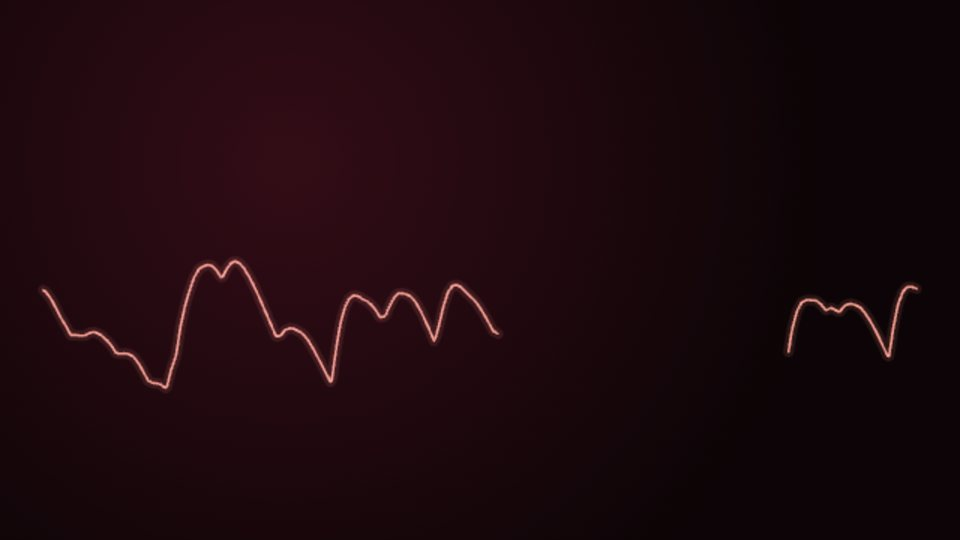
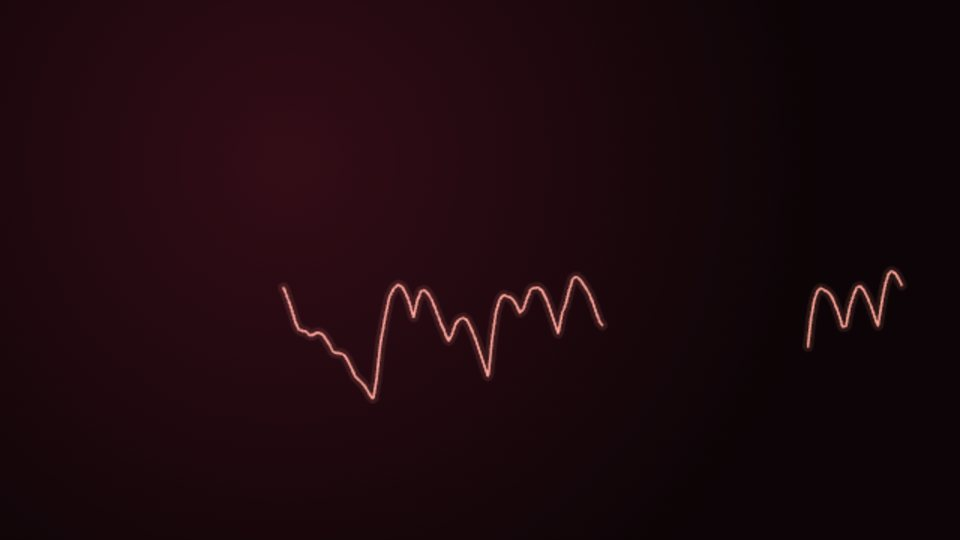
Fit beside album art (either side) and move sliders for all non-scene styles

diff --git a/spicy-visualiser.js b/spicy-visualiser.js
@@ -129,8 +129,11 @@
     mcColor: ["monstercat"],
     vuFace: ["vu"],
     vuMeters: ["vu"],
-    vuX: ["vu"],
-    vuY: ["vu"],
+    // styles that can sit beside the album art and be moved (not the
+    // full-screen scenes)
+    fit: ["monstercat", "mirror", "holospec", "ledm", "led", "ascii", "rgbsplit", "scope", "ekg", "dnb", "radial", "ncs", "sub", "trap", "drumpads", "geometric", "bauhaus", "neuro"],
+    moveX: ["vu", "monstercat", "mirror", "holospec", "ledm", "led", "ascii", "rgbsplit", "scope", "ekg", "dnb", "radial", "ncs", "sub", "trap", "drumpads", "geometric", "bauhaus", "neuro"],
+    moveY: ["vu", "monstercat", "mirror", "holospec", "ledm", "led", "ascii", "rgbsplit", "scope", "ekg", "dnb", "radial", "ncs", "sub", "trap", "drumpads", "geometric", "bauhaus", "neuro"],
     circleAt: ["trap", "radial", "ncs", "sub"],
     speed: ["ekg", "underwater", "sunset", "nightsky", "silk", "tvpixels", "scope", "trap", "neuro", "ribbon", "rain", "lava", "smoke", "tunnel", "aurora", "oil", "particles", "monstercat", "ncs", "radial", "plasma", "warp", "dnb", "ascii", "led", "ledplasma", "galaxy", "prism", "ombre"],
     bassBoost: ["rgbsplit", "underwater", "sunset", "nightsky", "silk", "tvpixels", "scope", "particles", "monstercat", "radial", "mirror", "ncs", "warp", "plasma", "dnb", "ascii", "geometric", "bauhaus", "led", "ledplasma", "sub", "trap", "ledm", "neuro", "ribbon", "rain", "lava", "smoke", "tunnel", "aurora", "oil", "galaxy", "prism", "ombre"],
@@ -158,8 +161,9 @@
     neuroMirror: "off",
     vuFace: "night", // VU Meters look: night (classic) | minimal | holo | hud
     vuMeters: "both", // VU Meters: both needles in one meter | split (bass left, highs right) | bass (one meter)
-    vuX: 0, // VU Meters: move left (-1) / right (+1)
-    vuY: 0, // VU Meters: move down (-1) / up (+1)
+    fit: "full", // full = the whole view; art = the free space beside the album art (either side)
+    moveX: 0, // move left (-1) / right (+1)
+    moveY: 0, // move down (-1) / up (+1)
     circleAt: "middle", // circle styles: middle of the view, or round the album art
     beatEvery: "1", // beat-stepping styles change every 1, 2, 4 or 8 beats
     colorMove: "move", // move = colours shift on the beat and drift; still = they stay put
@@ -168,13 +172,15 @@
     color2: "#5b8cff",
   };
   const STYLE_DEFAULTS = {
+    radial: { fit: "art" },
+    ncs: { fit: "art" },
     mirror: { barCount: 56, bassBoost: 0.6 },
     plasma: { shake: 0 },
     ascii: { colorMode: "classic" },
     geometric: { shake: 0, opacity: 0.85 },
     bauhaus: { shake: 0, opacity: 0.85, beatEvery: "4" },
-    sub: { shake: 0.4 },
-    trap: { shake: 0.4, bassBoost: 0.7, colorMode: "classic" },
+    sub: { shake: 0.4, fit: "art" },
+    trap: { shake: 0.4, bassBoost: 0.7, colorMode: "classic", fit: "art" },
     neuro: { shake: 0.2, colorMode: "classic", neuroTwist: 0.05 },
     ribbon: { shake: 0 },
     rain: { shake: 0 },
@@ -189,13 +195,13 @@
     prism: { shake: 0, colorMode: "classic" },
     ombre: { shake: 0 },
     vu: { shake: 0, vuFace: "holo" },
-    scope: { shake: 0, colorMode: "classic" },
-    drumpads: { shake: 0 },
+    scope: { shake: 0, colorMode: "classic", fit: "art" },
+    drumpads: { shake: 0, fit: "art" },
     led: { colorMode: "classic", shake: 0 },
     ledplasma: { shake: 0 },
     monstercat: { barCount: 63, bassBoost: 0.8, smoothing: 0.45, beatEvery: "4" },
     ledm: { shake: 0 },
-    ekg: { shake: 0 },
+    ekg: { shake: 0, fit: "art" },
     underwater: { shake: 0 },
     sunset: { shake: 0 },
     nightsky: { shake: 0 },
@@ -258,6 +264,7 @@
   // Settings that were taken out of the panel go back to their defaults.
   if (S.per.neuro) for (const k of ["neuroLine", "neuroTwist", "neuroMirror"]) delete S.per.neuro[k];
   if (S.per.vu && S.per.vu.vuFace === "led") delete S.per.vu.vuFace;
+  if (S.per.vu && "vuX" in S.per.vu) { S.per.vu.moveX = S.per.vu.vuX; S.per.vu.moveY = S.per.vu.vuY || 0; delete S.per.vu.vuX; delete S.per.vu.vuY; }
   if (S.per.vu && (S.per.vu.vuFace === "studio" || S.per.vu.vuFace === "broadcast")) S.per.vu.vuFace = "holo";
   for (const k of Object.keys(S.per)) if (S.per[k]) delete S.per[k].autoRange;
   // Shake used to go to 300% (and 40% was already a lot): convert old values so
@@ -2647,8 +2654,8 @@ void main() {
     }
     const look = VU_LOOKS[p.vuFace] || vuNight;
     const sp = freeSpot(v);
-    sp.x += Math.max(-1, Math.min(1, +p.vuX || 0)) * v.w * 0.4;
-    sp.y -= Math.max(-1, Math.min(1, +p.vuY || 0)) * v.h * 0.4;
+    sp.x += Math.max(-1, Math.min(1, +p.moveX || 0)) * v.w * 0.4;
+    sp.y -= Math.max(-1, Math.min(1, +p.moveY || 0)) * v.h * 0.4;
     if (p.vuMeters === "split") {
       const half = { wmax: sp.wmax * 0.62, y: sp.y }; // each a bit bigger than half, they still clear each other
       look(v, p, st, red, { ...half, x: sp.x - sp.wmax / 4 }, [0]);
@@ -2683,6 +2690,17 @@ void main() {
       return { x: r / 2, y: v.h / 2, wmax: r };
     }
     return { x: v.w / 2, y: v.h / 2, wmax: v.w };
+  }
+  // The part of the view a style draws in: the whole view, or (Fit: Beside
+  // art) the free space beside the album art, whichever side the art is.
+  function fitRegion(v, p) {
+    const art = p.fit === "art" && v.artCircle && v.artCircle();
+    if (art) {
+      const gap = art.r * 0.12, m = v.w * 0.03;
+      const [x0, x1] = art.x < v.w / 2 ? [art.x + art.r + gap, v.w - m] : [m, art.x - art.r - gap];
+      if (x1 - x0 > v.w * 0.25) return { x0, w: x1 - x0 };
+    }
+    return { x0: 0, w: v.w };
   }
   const UI_FONT = '"SpotifyMixUI", "CircularSp", "Helvetica Neue", Arial, sans-serif';
 
@@ -5238,7 +5256,7 @@ void main() {
             <div class="lp-row"><div class="lp-label"><span>Colour changes</span></div>${seg("colorMove", [["move", "Moving"], ["still", "Still"]], "style")}</div>
             <div class="lp-colors" data-show-color><label><input type="color" data-key="color1" data-scope="style">Colour 1</label><label><input type="color" data-key="color2" data-scope="style">Colour 2</label></div>`)}
           ${group("Appearance", slider("opacity", "Opacity", 0.1, 1, 0.05, "style") + slider("blur", "Blur", 0, 20, 0.5, "style") + slider("brightness", "Brightness", 0.2, 1.6, 0.05, "style") + slider("size", "Size", 0.4, 2, 0.05, "style"))}
-          ${group("Layout", slider("barCount", "Bar count", 16, 128, 1, "style", u("barCount")) + `<div class="lp-row" data-uses="${u("position")}"><div class="lp-label"><span>Position</span></div>${seg("position", [["bottom", "Bottom"], ["top", "Top"], ["both", "Both"]], "style")}</div><div class="lp-row" data-uses="${u("variant")}"><div class="lp-label"><span>Look</span></div>${seg("variant", [["poster", "Poster"], ["brutalist", "Brutalist"]], "style")}</div><div class="lp-row" data-uses="${u("neuroLook")}"><div class="lp-label"><span>Look</span></div>${seg("neuroLook", [["mesh", "Mesh"], ["lines", "Lines"], ["ridges", "Ridges"]], "style")}</div><div class="lp-row" data-uses="${u("vuFace")}"><div class="lp-label"><span>Look</span></div>${seg("vuFace", [["night", "Classic"], ["minimal", "Minimal"], ["holo", "Holo"], ["hud", "HUD"]], "style")}</div><div class="lp-row" data-uses="${u("vuMeters")}"><div class="lp-label"><span>Meters</span></div>${seg("vuMeters", [["both", "Both"], ["split", "Split"], ["bass", "Bass only"]], "style")}</div>${slider("vuX", "Left / right", -1, 1, 0.05, "style", u("vuX"))}${slider("vuY", "Up / down", -1, 1, 0.05, "style", u("vuY"))}<div class="lp-row" data-uses="${u("circleAt")}"><div class="lp-label"><span>Circle at</span></div>${seg("circleAt", [["middle", "Middle"], ["art", "Album art"]], "style")}</div><div class="lp-row" data-uses="${u("mcColor")}"><div class="lp-label"><span>Bar colour</span></div>${seg("mcColor", [["flow", "Flow"], ["frequency", "Freq."], ["height", "Area"], ["bar", "Bar"], ["solid", "Solid"]], "style")}</div><div class="lp-row" data-uses="${u("beatEvery")}"><div class="lp-label"><span>Change every</span></div>${seg("beatEvery", [["1", "Beat"], ["2", "2"], ["4", "4"], ["8", "8 beats"]], "style")}</div>`, [...new Set([...USES.barCount, ...USES.position, ...USES.variant, ...USES.neuroLook, ...USES.vuFace, ...USES.vuMeters, ...USES.circleAt, ...USES.mcColor, ...USES.beatEvery])].join(","))}
+          ${group("Layout", slider("barCount", "Bar count", 16, 128, 1, "style", u("barCount")) + `<div class="lp-row" data-uses="${u("position")}"><div class="lp-label"><span>Position</span></div>${seg("position", [["bottom", "Bottom"], ["top", "Top"], ["both", "Both"]], "style")}</div><div class="lp-row" data-uses="${u("variant")}"><div class="lp-label"><span>Look</span></div>${seg("variant", [["poster", "Poster"], ["brutalist", "Brutalist"]], "style")}</div><div class="lp-row" data-uses="${u("neuroLook")}"><div class="lp-label"><span>Look</span></div>${seg("neuroLook", [["mesh", "Mesh"], ["lines", "Lines"], ["ridges", "Ridges"]], "style")}</div><div class="lp-row" data-uses="${u("vuFace")}"><div class="lp-label"><span>Look</span></div>${seg("vuFace", [["night", "Classic"], ["minimal", "Minimal"], ["holo", "Holo"], ["hud", "HUD"]], "style")}</div><div class="lp-row" data-uses="${u("vuMeters")}"><div class="lp-label"><span>Meters</span></div>${seg("vuMeters", [["both", "Both"], ["split", "Split"], ["bass", "Bass only"]], "style")}</div><div class="lp-row" data-uses="${u("fit")}"><div class="lp-label"><span>Fit</span></div>${seg("fit", [["full", "Full width"], ["art", "Beside art"]], "style")}</div>${slider("moveX", "Left / right", -1, 1, 0.05, "style", u("moveX"))}${slider("moveY", "Up / down", -1, 1, 0.05, "style", u("moveY"))}<div class="lp-row" data-uses="${u("circleAt")}"><div class="lp-label"><span>Circle at</span></div>${seg("circleAt", [["middle", "Middle"], ["art", "Album art"]], "style")}</div><div class="lp-row" data-uses="${u("mcColor")}"><div class="lp-label"><span>Bar colour</span></div>${seg("mcColor", [["flow", "Flow"], ["frequency", "Freq."], ["height", "Area"], ["bar", "Bar"], ["solid", "Solid"]], "style")}</div><div class="lp-row" data-uses="${u("beatEvery")}"><div class="lp-label"><span>Change every</span></div>${seg("beatEvery", [["1", "Beat"], ["2", "2"], ["4", "4"], ["8", "8 beats"]], "style")}</div>`, [...new Set([...USES.barCount, ...USES.position, ...USES.variant, ...USES.neuroLook, ...USES.vuFace, ...USES.vuMeters, ...USES.moveX, ...USES.circleAt, ...USES.mcColor, ...USES.beatEvery])].join(","))}
         </div>
         ${group("Background", slider("bgDim", "Darken background", 0, 0.9, 0.05, "global") + `<div class="lp-note">Calms Spicy Lyrics' moving background so the visual stands out. The lyrics and album art aren't touched.</div>`)}
       </div>
@@ -5388,7 +5406,7 @@ void main() {
     p.querySelectorAll(".lp-val").forEach((el) => {
       const key = el.dataset.for;
       const val = read(el.dataset.scope, key);
-      el.textContent = key === "barCount" ? String(Math.round(val)) : key === "blur" ? val + "px" : key === "syncDelay" ? Math.round(val) + " ms" : key === "beatSens" && val <= 0 ? "Off" : key === "vuX" || key === "vuY" ? (Math.abs(val) < 0.025 ? "Centre" : (key === "vuX" ? (val < 0 ? "Left " : "Right ") : val < 0 ? "Down " : "Up ") + Math.round(Math.abs(val) * 100) + "%") : Math.round(val * 100) + "%";
+      el.textContent = key === "barCount" ? String(Math.round(val)) : key === "blur" ? val + "px" : key === "syncDelay" ? Math.round(val) + " ms" : key === "beatSens" && val <= 0 ? "Off" : key === "moveX" || key === "moveY" ? (Math.abs(val) < 0.025 ? "Centre" : (key === "moveX" ? (val < 0 ? "Left " : "Right ") : val < 0 ? "Down " : "Up ") + Math.round(Math.abs(val) * 100) + "%") : Math.round(val * 100) + "%";
     });
     p.querySelectorAll("[data-uses]").forEach((el) => el.classList.toggle("lp-hidden", !el.dataset.uses.split(",").includes(style)));
     p.querySelectorAll("[data-show-if]").forEach((el) => el.classList.toggle("lp-hidden", S[el.dataset.showIf] === "off"));
@@ -6041,7 +6059,20 @@ void main() {
         }
         ctx.setTransform(z, 0, 0, z, (v.w / 2) * (1 - z) + dx, (v.h / 2) * (1 - z) + dy);
         ctx.globalCompositeOperation = "lighter";
-        DRAW[style](v, p, dt, t);
+        // Fit and move: the style draws into a view the size of its region,
+        // shifted into place (VU Meters places itself).
+        let vv = v;
+        if (style !== "vu" && USES.moveX.includes(style)) {
+          const R = fitRegion(v, p);
+          ctx.translate(R.x0 + Math.max(-1, Math.min(1, +p.moveX || 0)) * v.w * 0.4, -Math.max(-1, Math.min(1, +p.moveY || 0)) * v.h * 0.4);
+          if (R.x0 || R.w !== v.w) {
+            vv = v.fitV || (v.fitV = Object.create(v));
+            vv.w = R.w;
+            vv.h = v.h;
+            vv.artCircle = () => { const a = v.artCircle(); return a && { ...a, x: a.x - R.x0 }; };
+          }
+        }
+        DRAW[style](vv, p, dt, t);
         ctx.setTransform(1, 0, 0, 1, 0, 0);
         ctx.globalCompositeOperation = "lighter";
         ctx.globalAlpha = 1;

diff --git a/src/spicy-visualiser.template.js b/src/spicy-visualiser.template.js
@@ -129,8 +129,11 @@
     mcColor: ["monstercat"],
     vuFace: ["vu"],
     vuMeters: ["vu"],
-    vuX: ["vu"],
-    vuY: ["vu"],
+    // styles that can sit beside the album art and be moved (not the
+    // full-screen scenes)
+    fit: ["monstercat", "mirror", "holospec", "ledm", "led", "ascii", "rgbsplit", "scope", "ekg", "dnb", "radial", "ncs", "sub", "trap", "drumpads", "geometric", "bauhaus", "neuro"],
+    moveX: ["vu", "monstercat", "mirror", "holospec", "ledm", "led", "ascii", "rgbsplit", "scope", "ekg", "dnb", "radial", "ncs", "sub", "trap", "drumpads", "geometric", "bauhaus", "neuro"],
+    moveY: ["vu", "monstercat", "mirror", "holospec", "ledm", "led", "ascii", "rgbsplit", "scope", "ekg", "dnb", "radial", "ncs", "sub", "trap", "drumpads", "geometric", "bauhaus", "neuro"],
     circleAt: ["trap", "radial", "ncs", "sub"],
     speed: ["ekg", "underwater", "sunset", "nightsky", "silk", "tvpixels", "scope", "trap", "neuro", "ribbon", "rain", "lava", "smoke", "tunnel", "aurora", "oil", "particles", "monstercat", "ncs", "radial", "plasma", "warp", "dnb", "ascii", "led", "ledplasma", "galaxy", "prism", "ombre"],
     bassBoost: ["rgbsplit", "underwater", "sunset", "nightsky", "silk", "tvpixels", "scope", "particles", "monstercat", "radial", "mirror", "ncs", "warp", "plasma", "dnb", "ascii", "geometric", "bauhaus", "led", "ledplasma", "sub", "trap", "ledm", "neuro", "ribbon", "rain", "lava", "smoke", "tunnel", "aurora", "oil", "galaxy", "prism", "ombre"],
@@ -158,8 +161,9 @@
     neuroMirror: "off",
     vuFace: "night", // VU Meters look: night (classic) | minimal | holo | hud
     vuMeters: "both", // VU Meters: both needles in one meter | split (bass left, highs right) | bass (one meter)
-    vuX: 0, // VU Meters: move left (-1) / right (+1)
-    vuY: 0, // VU Meters: move down (-1) / up (+1)
+    fit: "full", // full = the whole view; art = the free space beside the album art (either side)
+    moveX: 0, // move left (-1) / right (+1)
+    moveY: 0, // move down (-1) / up (+1)
     circleAt: "middle", // circle styles: middle of the view, or round the album art
     beatEvery: "1", // beat-stepping styles change every 1, 2, 4 or 8 beats
     colorMove: "move", // move = colours shift on the beat and drift; still = they stay put
@@ -168,13 +172,15 @@
     color2: "#5b8cff",
   };
   const STYLE_DEFAULTS = {
+    radial: { fit: "art" },
+    ncs: { fit: "art" },
     mirror: { barCount: 56, bassBoost: 0.6 },
     plasma: { shake: 0 },
     ascii: { colorMode: "classic" },
     geometric: { shake: 0, opacity: 0.85 },
     bauhaus: { shake: 0, opacity: 0.85, beatEvery: "4" },
-    sub: { shake: 0.4 },
-    trap: { shake: 0.4, bassBoost: 0.7, colorMode: "classic" },
+    sub: { shake: 0.4, fit: "art" },
+    trap: { shake: 0.4, bassBoost: 0.7, colorMode: "classic", fit: "art" },
     neuro: { shake: 0.2, colorMode: "classic", neuroTwist: 0.05 },
     ribbon: { shake: 0 },
     rain: { shake: 0 },
@@ -189,13 +195,13 @@
     prism: { shake: 0, colorMode: "classic" },
     ombre: { shake: 0 },
     vu: { shake: 0, vuFace: "holo" },
-    scope: { shake: 0, colorMode: "classic" },
-    drumpads: { shake: 0 },
+    scope: { shake: 0, colorMode: "classic", fit: "art" },
+    drumpads: { shake: 0, fit: "art" },
     led: { colorMode: "classic", shake: 0 },
     ledplasma: { shake: 0 },
     monstercat: { barCount: 63, bassBoost: 0.8, smoothing: 0.45, beatEvery: "4" },
     ledm: { shake: 0 },
-    ekg: { shake: 0 },
+    ekg: { shake: 0, fit: "art" },
     underwater: { shake: 0 },
     sunset: { shake: 0 },
     nightsky: { shake: 0 },
@@ -258,6 +264,7 @@
   // Settings that were taken out of the panel go back to their defaults.
   if (S.per.neuro) for (const k of ["neuroLine", "neuroTwist", "neuroMirror"]) delete S.per.neuro[k];
   if (S.per.vu && S.per.vu.vuFace === "led") delete S.per.vu.vuFace;
+  if (S.per.vu && "vuX" in S.per.vu) { S.per.vu.moveX = S.per.vu.vuX; S.per.vu.moveY = S.per.vu.vuY || 0; delete S.per.vu.vuX; delete S.per.vu.vuY; }
   if (S.per.vu && (S.per.vu.vuFace === "studio" || S.per.vu.vuFace === "broadcast")) S.per.vu.vuFace = "holo";
   for (const k of Object.keys(S.per)) if (S.per[k]) delete S.per[k].autoRange;
   // Shake used to go to 300% (and 40% was already a lot): convert old values so
@@ -2647,8 +2654,8 @@ void main() {
     }
     const look = VU_LOOKS[p.vuFace] || vuNight;
     const sp = freeSpot(v);
-    sp.x += Math.max(-1, Math.min(1, +p.vuX || 0)) * v.w * 0.4;
-    sp.y -= Math.max(-1, Math.min(1, +p.vuY || 0)) * v.h * 0.4;
+    sp.x += Math.max(-1, Math.min(1, +p.moveX || 0)) * v.w * 0.4;
+    sp.y -= Math.max(-1, Math.min(1, +p.moveY || 0)) * v.h * 0.4;
     if (p.vuMeters === "split") {
       const half = { wmax: sp.wmax * 0.62, y: sp.y }; // each a bit bigger than half, they still clear each other
       look(v, p, st, red, { ...half, x: sp.x - sp.wmax / 4 }, [0]);
@@ -2683,6 +2690,17 @@ void main() {
       return { x: r / 2, y: v.h / 2, wmax: r };
     }
     return { x: v.w / 2, y: v.h / 2, wmax: v.w };
+  }
+  // The part of the view a style draws in: the whole view, or (Fit: Beside
+  // art) the free space beside the album art, whichever side the art is.
+  function fitRegion(v, p) {
+    const art = p.fit === "art" && v.artCircle && v.artCircle();
+    if (art) {
+      const gap = art.r * 0.12, m = v.w * 0.03;
+      const [x0, x1] = art.x < v.w / 2 ? [art.x + art.r + gap, v.w - m] : [m, art.x - art.r - gap];
+      if (x1 - x0 > v.w * 0.25) return { x0, w: x1 - x0 };
+    }
+    return { x0: 0, w: v.w };
   }
   const UI_FONT = '"SpotifyMixUI", "CircularSp", "Helvetica Neue", Arial, sans-serif';
 
@@ -4926,7 +4944,7 @@ void main() {
             <div class="lp-row"><div class="lp-label"><span>Colour changes</span></div>${seg("colorMove", [["move", "Moving"], ["still", "Still"]], "style")}</div>
             <div class="lp-colors" data-show-color><label><input type="color" data-key="color1" data-scope="style">Colour 1</label><label><input type="color" data-key="color2" data-scope="style">Colour 2</label></div>`)}
           ${group("Appearance", slider("opacity", "Opacity", 0.1, 1, 0.05, "style") + slider("blur", "Blur", 0, 20, 0.5, "style") + slider("brightness", "Brightness", 0.2, 1.6, 0.05, "style") + slider("size", "Size", 0.4, 2, 0.05, "style"))}
-          ${group("Layout", slider("barCount", "Bar count", 16, 128, 1, "style", u("barCount")) + `<div class="lp-row" data-uses="${u("position")}"><div class="lp-label"><span>Position</span></div>${seg("position", [["bottom", "Bottom"], ["top", "Top"], ["both", "Both"]], "style")}</div><div class="lp-row" data-uses="${u("variant")}"><div class="lp-label"><span>Look</span></div>${seg("variant", [["poster", "Poster"], ["brutalist", "Brutalist"]], "style")}</div><div class="lp-row" data-uses="${u("neuroLook")}"><div class="lp-label"><span>Look</span></div>${seg("neuroLook", [["mesh", "Mesh"], ["lines", "Lines"], ["ridges", "Ridges"]], "style")}</div><div class="lp-row" data-uses="${u("vuFace")}"><div class="lp-label"><span>Look</span></div>${seg("vuFace", [["night", "Classic"], ["minimal", "Minimal"], ["holo", "Holo"], ["hud", "HUD"]], "style")}</div><div class="lp-row" data-uses="${u("vuMeters")}"><div class="lp-label"><span>Meters</span></div>${seg("vuMeters", [["both", "Both"], ["split", "Split"], ["bass", "Bass only"]], "style")}</div>${slider("vuX", "Left / right", -1, 1, 0.05, "style", u("vuX"))}${slider("vuY", "Up / down", -1, 1, 0.05, "style", u("vuY"))}<div class="lp-row" data-uses="${u("circleAt")}"><div class="lp-label"><span>Circle at</span></div>${seg("circleAt", [["middle", "Middle"], ["art", "Album art"]], "style")}</div><div class="lp-row" data-uses="${u("mcColor")}"><div class="lp-label"><span>Bar colour</span></div>${seg("mcColor", [["flow", "Flow"], ["frequency", "Freq."], ["height", "Area"], ["bar", "Bar"], ["solid", "Solid"]], "style")}</div><div class="lp-row" data-uses="${u("beatEvery")}"><div class="lp-label"><span>Change every</span></div>${seg("beatEvery", [["1", "Beat"], ["2", "2"], ["4", "4"], ["8", "8 beats"]], "style")}</div>`, [...new Set([...USES.barCount, ...USES.position, ...USES.variant, ...USES.neuroLook, ...USES.vuFace, ...USES.vuMeters, ...USES.circleAt, ...USES.mcColor, ...USES.beatEvery])].join(","))}
+          ${group("Layout", slider("barCount", "Bar count", 16, 128, 1, "style", u("barCount")) + `<div class="lp-row" data-uses="${u("position")}"><div class="lp-label"><span>Position</span></div>${seg("position", [["bottom", "Bottom"], ["top", "Top"], ["both", "Both"]], "style")}</div><div class="lp-row" data-uses="${u("variant")}"><div class="lp-label"><span>Look</span></div>${seg("variant", [["poster", "Poster"], ["brutalist", "Brutalist"]], "style")}</div><div class="lp-row" data-uses="${u("neuroLook")}"><div class="lp-label"><span>Look</span></div>${seg("neuroLook", [["mesh", "Mesh"], ["lines", "Lines"], ["ridges", "Ridges"]], "style")}</div><div class="lp-row" data-uses="${u("vuFace")}"><div class="lp-label"><span>Look</span></div>${seg("vuFace", [["night", "Classic"], ["minimal", "Minimal"], ["holo", "Holo"], ["hud", "HUD"]], "style")}</div><div class="lp-row" data-uses="${u("vuMeters")}"><div class="lp-label"><span>Meters</span></div>${seg("vuMeters", [["both", "Both"], ["split", "Split"], ["bass", "Bass only"]], "style")}</div><div class="lp-row" data-uses="${u("fit")}"><div class="lp-label"><span>Fit</span></div>${seg("fit", [["full", "Full width"], ["art", "Beside art"]], "style")}</div>${slider("moveX", "Left / right", -1, 1, 0.05, "style", u("moveX"))}${slider("moveY", "Up / down", -1, 1, 0.05, "style", u("moveY"))}<div class="lp-row" data-uses="${u("circleAt")}"><div class="lp-label"><span>Circle at</span></div>${seg("circleAt", [["middle", "Middle"], ["art", "Album art"]], "style")}</div><div class="lp-row" data-uses="${u("mcColor")}"><div class="lp-label"><span>Bar colour</span></div>${seg("mcColor", [["flow", "Flow"], ["frequency", "Freq."], ["height", "Area"], ["bar", "Bar"], ["solid", "Solid"]], "style")}</div><div class="lp-row" data-uses="${u("beatEvery")}"><div class="lp-label"><span>Change every</span></div>${seg("beatEvery", [["1", "Beat"], ["2", "2"], ["4", "4"], ["8", "8 beats"]], "style")}</div>`, [...new Set([...USES.barCount, ...USES.position, ...USES.variant, ...USES.neuroLook, ...USES.vuFace, ...USES.vuMeters, ...USES.moveX, ...USES.circleAt, ...USES.mcColor, ...USES.beatEvery])].join(","))}
         </div>
         ${group("Background", slider("bgDim", "Darken background", 0, 0.9, 0.05, "global") + `<div class="lp-note">Calms Spicy Lyrics' moving background so the visual stands out. The lyrics and album art aren't touched.</div>`)}
       </div>
@@ -5076,7 +5094,7 @@ void main() {
     p.querySelectorAll(".lp-val").forEach((el) => {
       const key = el.dataset.for;
       const val = read(el.dataset.scope, key);
-      el.textContent = key === "barCount" ? String(Math.round(val)) : key === "blur" ? val + "px" : key === "syncDelay" ? Math.round(val) + " ms" : key === "beatSens" && val <= 0 ? "Off" : key === "vuX" || key === "vuY" ? (Math.abs(val) < 0.025 ? "Centre" : (key === "vuX" ? (val < 0 ? "Left " : "Right ") : val < 0 ? "Down " : "Up ") + Math.round(Math.abs(val) * 100) + "%") : Math.round(val * 100) + "%";
+      el.textContent = key === "barCount" ? String(Math.round(val)) : key === "blur" ? val + "px" : key === "syncDelay" ? Math.round(val) + " ms" : key === "beatSens" && val <= 0 ? "Off" : key === "moveX" || key === "moveY" ? (Math.abs(val) < 0.025 ? "Centre" : (key === "moveX" ? (val < 0 ? "Left " : "Right ") : val < 0 ? "Down " : "Up ") + Math.round(Math.abs(val) * 100) + "%") : Math.round(val * 100) + "%";
     });
     p.querySelectorAll("[data-uses]").forEach((el) => el.classList.toggle("lp-hidden", !el.dataset.uses.split(",").includes(style)));
     p.querySelectorAll("[data-show-if]").forEach((el) => el.classList.toggle("lp-hidden", S[el.dataset.showIf] === "off"));
@@ -5729,7 +5747,20 @@ void main() {
         }
         ctx.setTransform(z, 0, 0, z, (v.w / 2) * (1 - z) + dx, (v.h / 2) * (1 - z) + dy);
         ctx.globalCompositeOperation = "lighter";
-        DRAW[style](v, p, dt, t);
+        // Fit and move: the style draws into a view the size of its region,
+        // shifted into place (VU Meters places itself).
+        let vv = v;
+        if (style !== "vu" && USES.moveX.includes(style)) {
+          const R = fitRegion(v, p);
+          ctx.translate(R.x0 + Math.max(-1, Math.min(1, +p.moveX || 0)) * v.w * 0.4, -Math.max(-1, Math.min(1, +p.moveY || 0)) * v.h * 0.4);
+          if (R.x0 || R.w !== v.w) {
+            vv = v.fitV || (v.fitV = Object.create(v));
+            vv.w = R.w;
+            vv.h = v.h;
+            vv.artCircle = () => { const a = v.artCircle(); return a && { ...a, x: a.x - R.x0 }; };
+          }
+        }
+        DRAW[style](vv, p, dt, t);
         ctx.setTransform(1, 0, 0, 1, 0, 0);
         ctx.globalCompositeOperation = "lighter";
         ctx.globalAlpha = 1;

diff --git a/docs/STYLES.md b/docs/STYLES.md
@@ -9,6 +9,10 @@ Every style:
 - takes its colours from the album cover;
 - gets a little fuller on songs with no lyrics, or with static lyrics that don't move.
 
+Styles that aren't full-screen scenes (bars, meters, lines, circles, drum pads, posters) also have, under **Look → Layout**:
+- **Fit**: **Full width**, or **Beside art**, which keeps it in the free space next to the album art, on whichever side the art is (in fullscreen you can move the art to either side). Circles, drum pads, EKG and the oscilloscope start on Beside art;
+- **Left / right** and **Up / down**, to move it anywhere.
+
 On songs with no lyrics, the song name and artist take the place of Spicy Lyrics' "No lyrics" box, except in fullscreen, where Spicy's box is left alone (click it to see the box again; you can turn it off in the panel's settings).
 
 > The pictures show just the visualiser (no lyrics), all playing the same test song. The colours come from the album cover, so they change between a few made-up albums.
